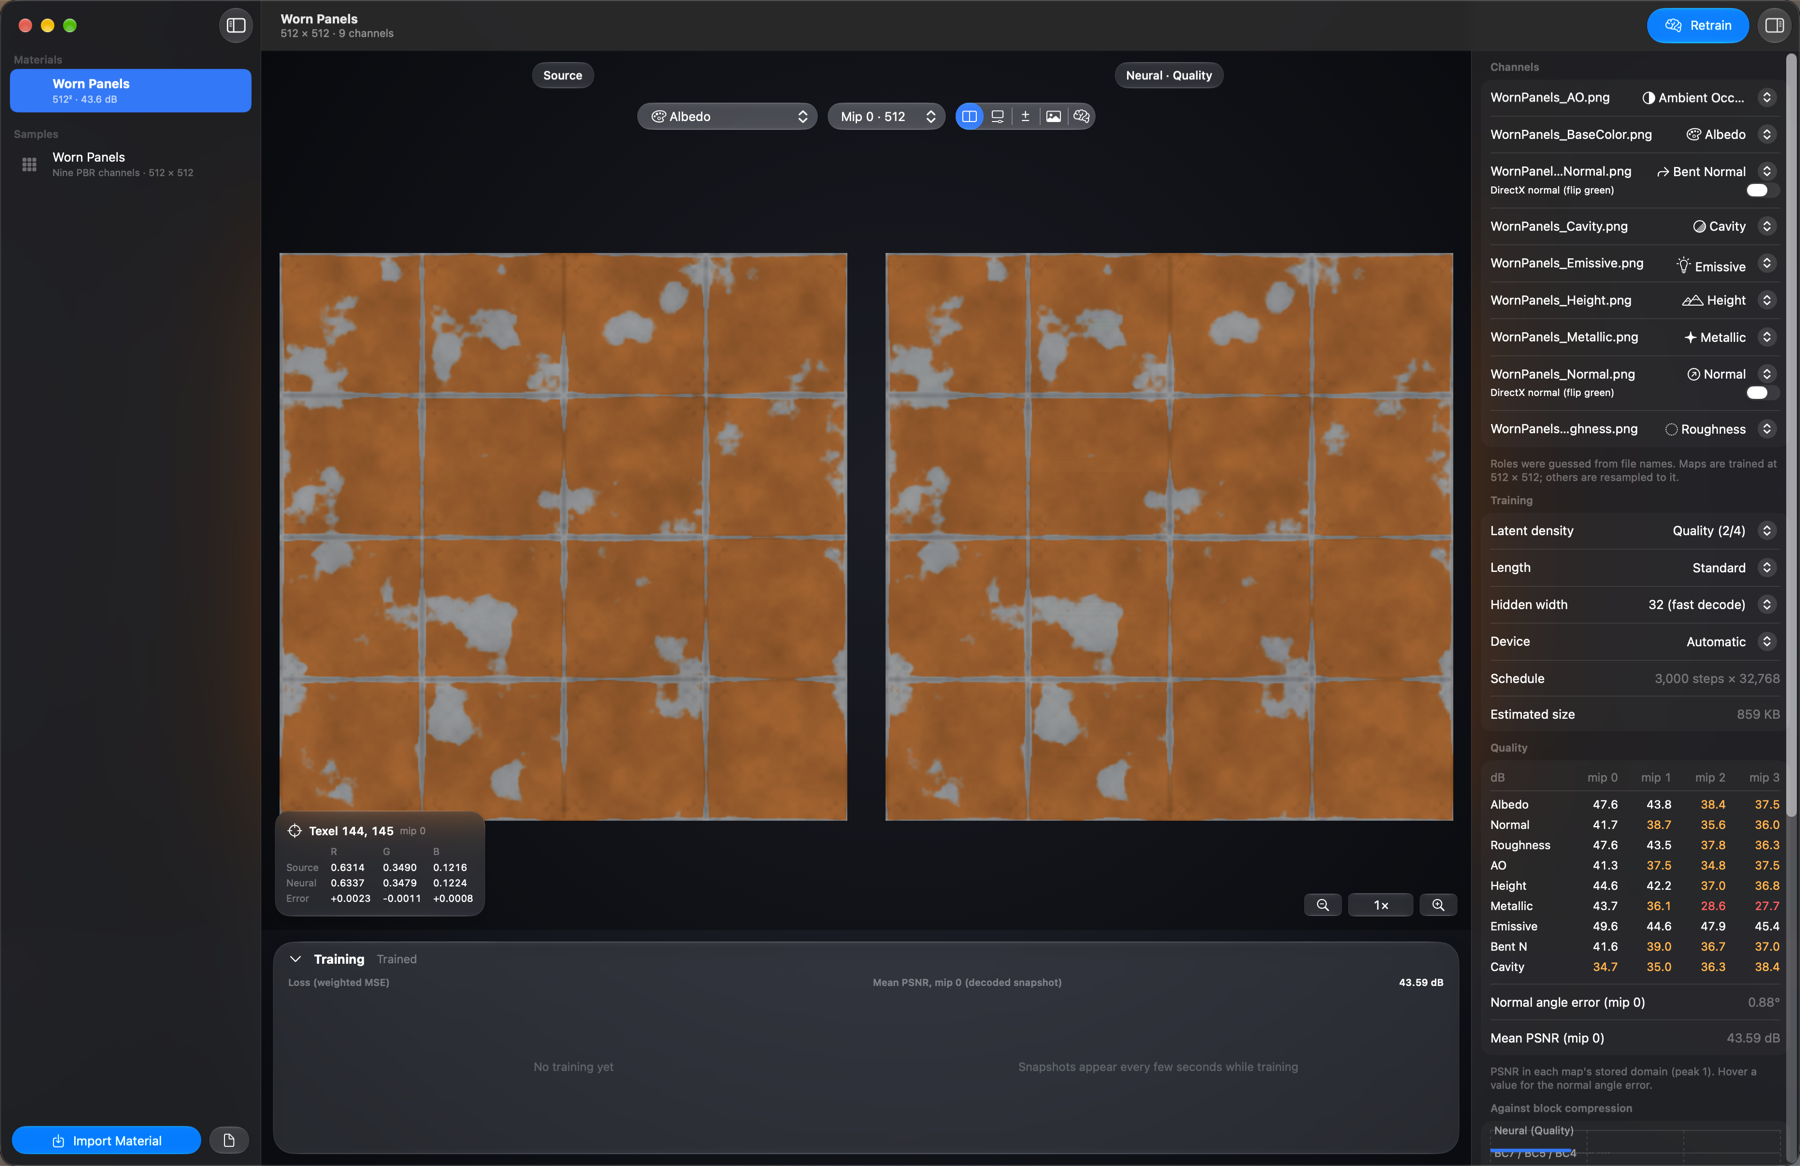
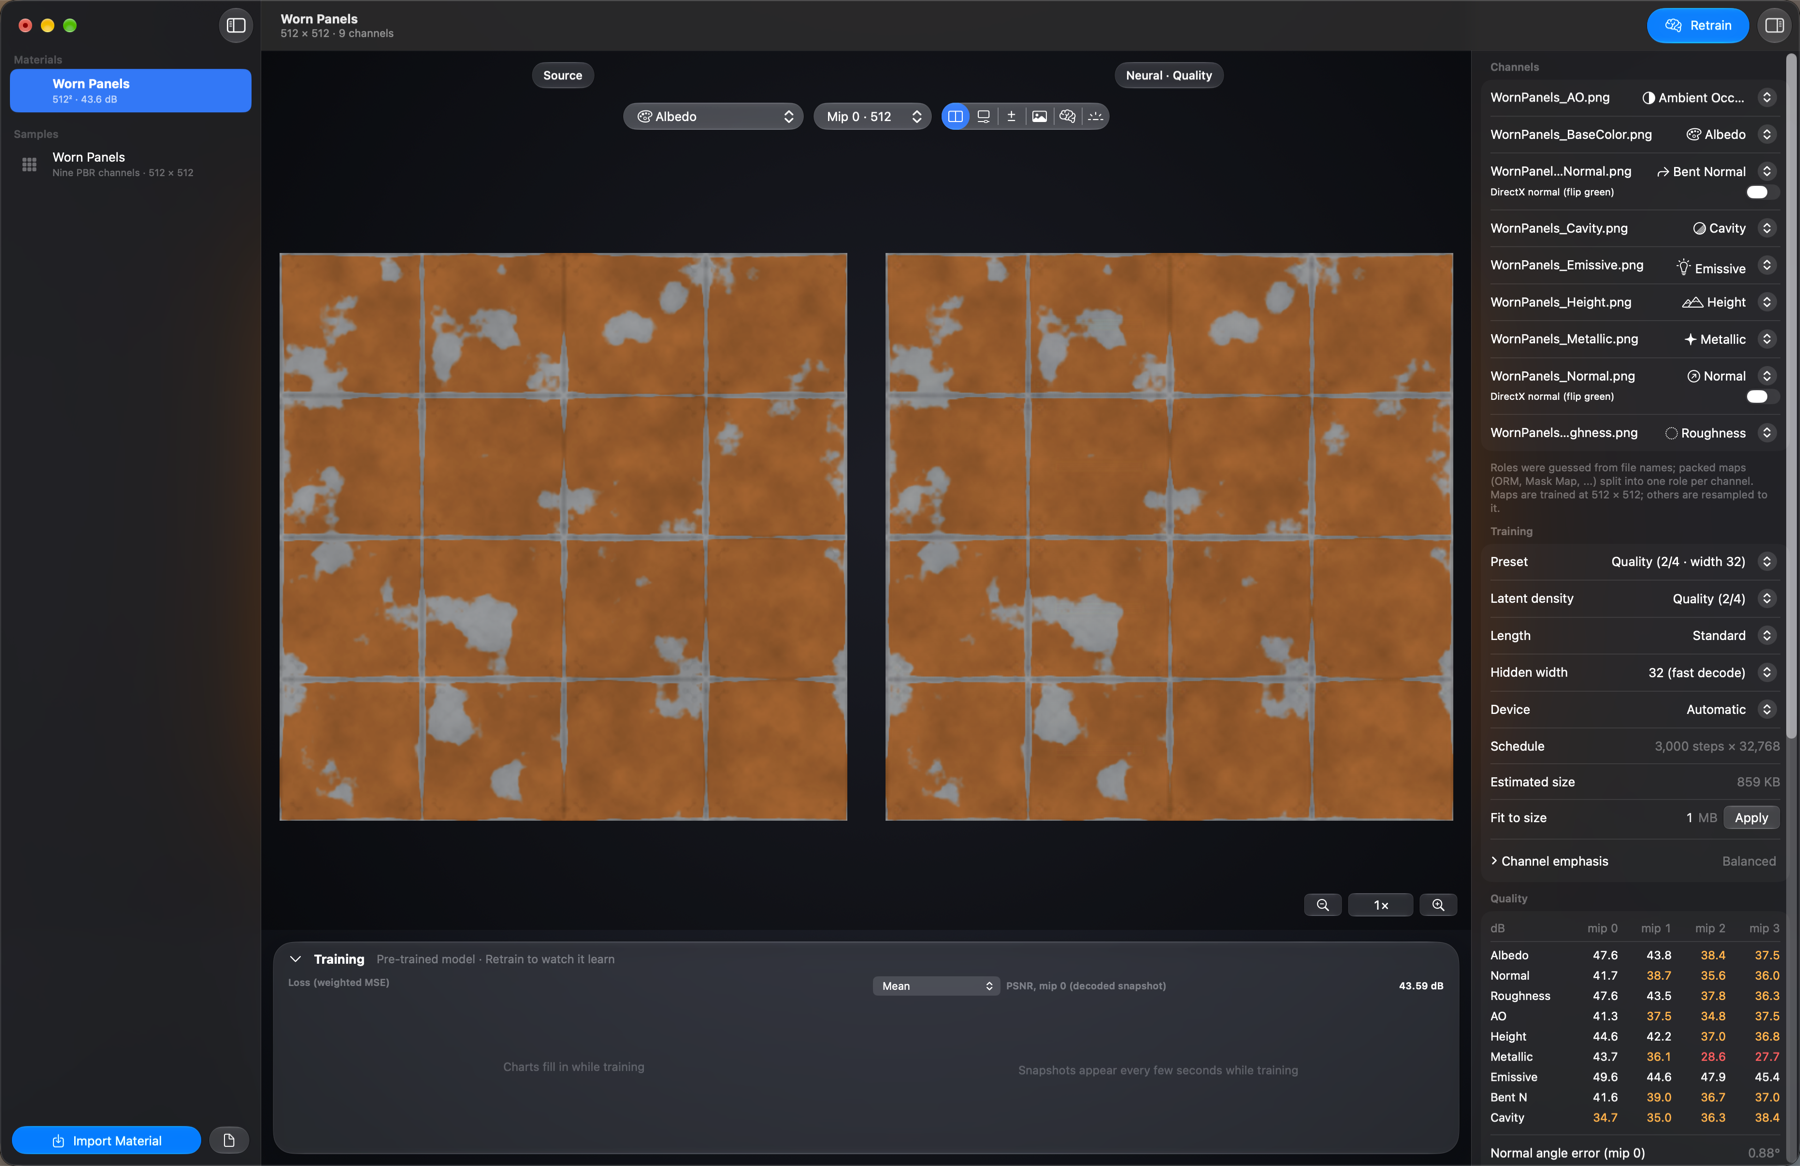
Download page for 1.1.0

diff --git a/README.md b/README.md
@@ -18,17 +18,25 @@ set in BC7/BC5, and any texel decodes on its own with a few dozen lines of shade
   side by side.
 - **Open format, drop-in decoders.** The `.ntex` container is documented, and the DMG includes a Metal shader and a
   single-file C header so any engine can decode it: per sample in a material shader, or once on load.
-- **Batch queue and presets.** Train a whole library, at Quality (2/4), Balanced (4/8) or Compact (8/16) latent
-  density.
+- **Fast on Apple silicon.** The whole training step runs on the GPU: about 19M texels/s on a base M5, so a 256²
+  material trains in seconds and a 512² one in under a minute.
+- **Packed maps and opacity.** ORM, ARM, RMA, MRA, Unity MetallicSmoothness and Mask Map are split per channel
+  automatically; base-colour alpha becomes opacity.
+- **See it lit.** A 3D preview shows the source and the neural texture side by side on a sphere, cube or tiled plane.
+- **Libraries, not just materials.** A batch queue, saved projects, per-channel charts, presets (Quality+, Quality,
+  Balanced, Compact), a size-target mode that fits a byte budget, and HTML/CSV library reports.
+- **Engine samples.** Unity, Godot and Unreal importers and runtime decoders are in the DMG.
 - **Command-line tool included:** `neural-texture demo | scan | train | batch | inspect | decode | export-decoder`.
 - **Comes with a sample:** a pre-trained painted-metal material with all nine channels.
 
 <p align="center"><img src="images/training.png" width="900" alt="Training the demo material with live charts"></p>
+<p align="center"><img src="images/lit.png" width="900" alt="The lit preview: source and neural side by side"></p>
+<p align="center"><img src="images/batch.png" width="900" alt="A batch queue of materials training"></p>
 
 ## Download
-Get **NeuralTextureStudio-1.0.0-macOS.dmg** from
+Get **NeuralTextureStudio-1.1.0-macOS.dmg** from
 [Releases](https://github.com/theisegoria/neural-texture-studio/releases/latest), open it and drag Neural Texture
-Studio to Applications. The `neural-texture` tool, the reference decoder and the sample material are in the DMG.
+Studio to Applications. The `neural-texture` tool, the reference decoders, the engine samples and the sample material are in the DMG.
 
 Requires macOS 27 on Apple silicon. The app is signed with a Developer ID but not notarized. The first time, right-click it in Applications and choose **Open**, then **Open** again.
 
